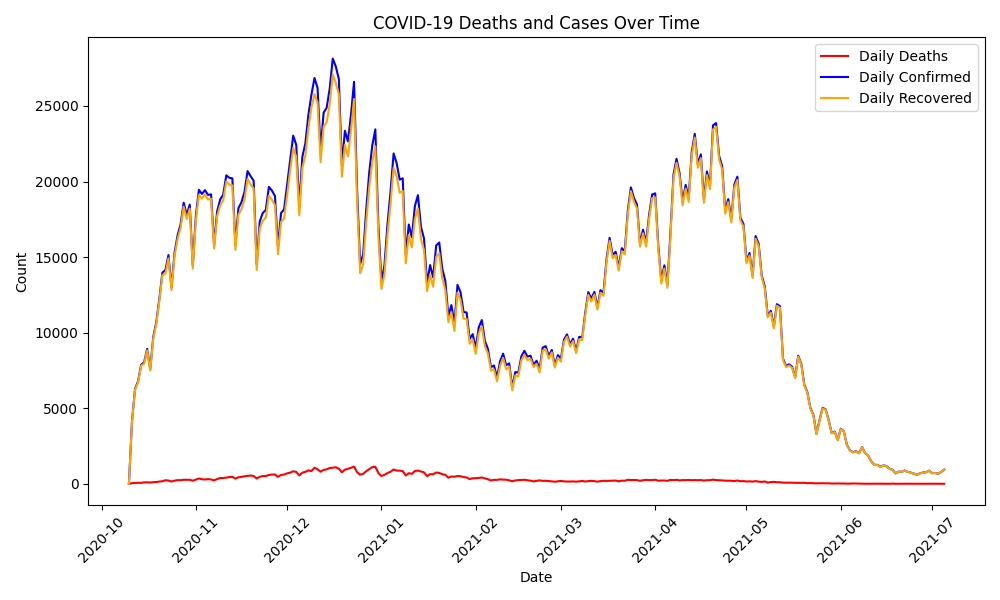
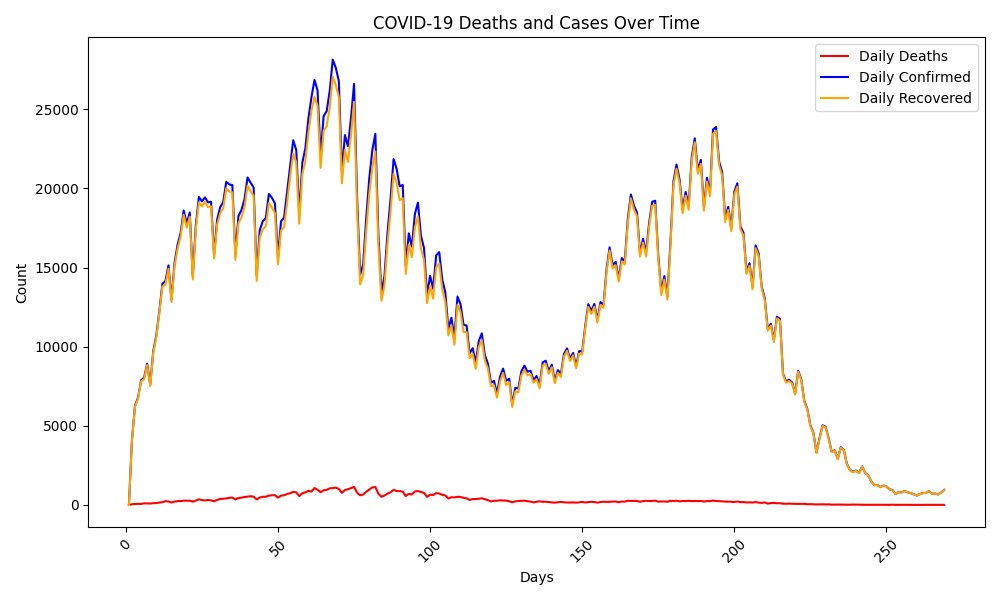
some_update

diff --git a/estimate_parameter.py b/estimate_parameter.py
@@ -1,0 +1,119 @@
+import numpy as np
+import pandas as pd
+from scipy.integrate import solve_ivp
+from scipy.optimize import curve_fit
+import matplotlib.pyplot as plt
+from iprocessor import add_day_name_column, plot_data_dcr, add_date_name_column, smooth_sundays_ssmt,smooth_sundays_ssm,\
+    smooth_sundays_rolling_ssm_w3,smooth_sundays_rolling_ssm_w5,smooth_sundays_rolling_w5_r,smooth_sundays_rolling_w5_l,smooth_sundays_rolling_w7_l,\
+        smooth_sundays_rolling_w7_r,smooth_sundays_rolling_ssm_w3_smt,plot_data_dcr_multi
+
+# Sample parameters,
+contacts = 1.0
+transmission_prob = 0.1
+total_population = 1000000
+reducing_transmission = 0.859
+exposed_period = 5
+asymptomatic_period = 14
+infectious_period = 14
+isolated_period = 21
+prob_asymptomatic = 0.3
+prob_quarant_inf = 0.5
+test_asy = 0.2
+dev_symp = 0.1
+mortality_isolated = 0.02
+mortality_infected = 0.01
+
+# Sample initial conditions-------------------------------------------------------
+S0 = total_population - 1
+E0 = 1
+A0 = 0
+I0 = 0
+F0 = 0
+R0 = 0
+D0 = 0
+initial_conditions = [S0, E0, A0, I0, F0, R0, D0]
+
+
+# Dataframe-------------------------------------------------
+df = pd.read_csv(r'C:\Users\kida_ev\PycharmProjects\pythonProject1\MA_EVNZR\German_case_.csv')
+
+# -------------------------------------------------------------------------------Convert 'Date' column to datetime format
+df['Date'] = pd.to_datetime(df['Date'], format='%Y-%m-%d')
+
+
+#------------------------------------------------------------------------------  Modification
+# Add the 'days' column
+df= add_day_name_column(df)
+df = add_date_name_column(df)
+#----------------------------------------------------------------------------- second modification with w7_l
+df_observed = smooth_sundays_rolling_w7_l(df)
+#-----------------------------------------------------------------------------------------------------
+# Taking 'days' time column from dataframe
+t = np.array(df_observed['days'])
+tmax = len(t)
+def derivative_rhs(t, X, contacts, transmission_prob, total_population, reducing_transmission,
+                   exposed_period, asymptomatic_period, infectious_period, isolated_period,
+                   prob_asymptomatic, prob_quarant_inf, test_asy, dev_symp, mortality_isolated, mortality_infected):
+    S, E, A, I, F, R, D = X
+    derivS = - contacts * transmission_prob * S * (I + reducing_transmission * A) / total_population
+    derivE = contacts * transmission_prob * S * (I + reducing_transmission * A) / total_population - E / exposed_period
+    derivA = prob_asymptomatic * E / exposed_period - A / asymptomatic_period
+    derivI = (1 - prob_asymptomatic) * E / exposed_period + dev_symp * A / asymptomatic_period - I / infectious_period  # +
+    derivF = prob_quarant_inf * I / infectious_period - F / isolated_period + test_asy * A / asymptomatic_period  # prob_isolated_asy*A/asymptomatic_period
+    derivR = (1 - prob_quarant_inf - mortality_infected) * I / infectious_period + (1 - mortality_isolated) * F / isolated_period + (1 - dev_symp - test_asy) * A / asymptomatic_period  # (1-prob_isolated_asy)*A / asymptomatic_period
+    derivD = (mortality_infected) * I / infectious_period + mortality_isolated * F / isolated_period
+    return np.array([derivS, derivE, derivA, derivI, derivF, derivR, derivD])
+
+#print(derivative_rhs(t, initial_conditions, contacts, transmission_prob, total_population, reducing_transmission,
+ #                  exposed_period, asymptomatic_period, infectious_period, isolated_period,
+  #                 prob_asymptomatic, prob_quarant_inf, test_asy, dev_symp, mortality_isolated, mortality_infected))
+
+
+def seaifrd_model(t, contacts, initial_conditions,transmission_prob, total_population, reducing_transmission,
+                  exposed_period, asymptomatic_period, infectious_period, isolated_period,
+                  prob_asymptomatic, prob_quarant_inf, test_asy, dev_symp, mortality_isolated, mortality_infected):
+    def derivative(t, initial_conditions):
+        return derivative_rhs(t, initial_conditions, contacts, transmission_prob, total_population, reducing_transmission,
+                              exposed_period, asymptomatic_period, infectious_period,
+                              isolated_period, prob_asymptomatic,
+                              prob_quarant_inf, test_asy, dev_symp, mortality_isolated, mortality_infected)
+
+    solution = solve_ivp(derivative, [0, tmax], initial_conditions, t_eval=t, method='RK45')
+    return solution#.y.flatten()
+print(seaifrd_model(t, contacts,initial_conditions, transmission_prob, total_population, reducing_transmission,
+                  exposed_period, asymptomatic_period, infectious_period, isolated_period,
+                  prob_asymptomatic, prob_quarant_inf, test_asy, dev_symp, mortality_isolated, mortality_infected))
+def fit_seaifrd_model(t, initial_conditions,confirmed, recovered, death):
+    def objective(t, contacts, initial_conditions,transmission_prob, total_population, reducing_transmission,
+                  exposed_period, asymptomatic_period, infectious_period, isolated_period,
+                  prob_asymptomatic, prob_quarant_inf, test_asy, dev_symp, mortality_isolated, mortality_infected):
+        return seaifrd_model(t, contacts, initial_conditions,transmission_prob, total_population, reducing_transmission,
+                             exposed_period, asymptomatic_period, infectious_period,
+                             isolated_period, prob_asymptomatic,
+                             prob_quarant_inf, test_asy, dev_symp, mortality_isolated, mortality_infected)
+
+    # Initial parameter guesses
+    initial_guess = [1.0,initial_conditions, 0.1, 1000000, 0.859, 5, 14, 14, 21, 0.3, 0.5, 0.2, 0.1, 0.02, 0.01]
+
+    # curve_fit to estimate parameters
+    params,_ = curve_fit(objective,t, np.concatenate([confirmed, recovered, death]), p0=initial_guess)# since curve_fit is expecting target values ydata as a single array; and x=time
+
+    return params
+
+# Estimate parameters
+estimated_params = fit_seaifrd_model(t, initial_conditions,df_observed['n_confirmed'], df_observed['n_recovered'], df_observed['n_death'])
+
+# Print the estimated parameters
+print("Estimated Parameters:", estimated_params)
+
+# Integrate the SEAIRFD model with estimated parameters
+solution_seaifrd = solve_ivp(
+    derivative_rhs,
+    [0, tmax],
+    initial_conditions,
+    t_eval=t,
+    args=estimated_params,
+    method='RK45'
+)
+
+

diff --git a/smoother.py b/smoother.py
@@ -1,4 +1,8 @@
 import pandas as pd
+import numpy as np
+import matplotlib.pyplot as plt
+import seaborn as sns
+from matplotlib.ticker import FixedLocator, NullFormatter
 from iprocessor import add_day_name_column, plot_data_dcr, add_date_name_column, smooth_sundays_ssmt,smooth_sundays_ssm,\
     smooth_sundays_rolling_ssm_w3,smooth_sundays_rolling_ssm_w5,smooth_sundays_rolling_w5_r,smooth_sundays_rolling_w5_l,smooth_sundays_rolling_w7_l,\
         smooth_sundays_rolling_w7_r,smooth_sundays_rolling_ssm_w3_smt,plot_data_dcr_multi
@@ -27,25 +31,55 @@ df = add_date_name_column(df)
 
 
 #------------------------------------------------------------------------------- plotting
-plot_data_dcr(df,'n_death','n_confirmed','n_recovered','original')
-plot_data_dcr(smooth_sundays_ssmt(df),'n_death','n_confirmed','n_recovered','smoothed_ssmt')
-plot_data_dcr(smooth_sundays_ssm(df),'n_death','n_confirmed','n_recovered','smoothed_ssm')
-plot_data_dcr(smooth_sundays_rolling_ssm_w3(df),'n_death','n_confirmed','n_recovered','smoothed_rolling_ssm_w3')
-plot_data_dcr(smooth_sundays_rolling_ssm_w5(df),'n_death','n_confirmed','n_recovered','smoothed_rolling_fssmt_w5')
-plot_data_dcr(smooth_sundays_rolling_ssm_w3_smt(df),'n_death','n_confirmed','n_recovered','smoothed_rolling_smt_w3')
-plot_data_dcr(smooth_sundays_rolling_w7_r(df),'n_death','n_confirmed','n_recovered','smoothed_rolling_w7_r')
-plot_data_dcr(smooth_sundays_rolling_w5_r(df),'n_death','n_confirmed','n_recovered','smoothed_rolling_w5_r')
-plot_data_dcr(smooth_sundays_rolling_w7_l(df),'n_death','n_confirmed','n_recovered','smoothed_rolling_w7_l')
-plot_data_dcr(smooth_sundays_rolling_w5_l(df),'n_death','n_confirmed','n_recovered','smoothed_rolling_w5_l')
-#
+#plot_data_dcr(df,'n_death','n_confirmed','n_recovered','original')
+#plot_data_dcr(smooth_sundays_ssmt(df),'n_death','n_confirmed','n_recovered','smoothed_ssmt')
+#plot_data_dcr(smooth_sundays_ssm(df),'n_death','n_confirmed','n_recovered','smoothed_ssm')
+#plot_data_dcr(smooth_sundays_rolling_ssm_w3(df),'n_death','n_confirmed','n_recovered','smoothed_rolling_ssm_w3')
+#plot_data_dcr(smooth_sundays_rolling_ssm_w5(df),'n_death','n_confirmed','n_recovered','smoothed_rolling_fssmt_w5')
+#plot_data_dcr(smooth_sundays_rolling_ssm_w3_smt(df),'n_death','n_confirmed','n_recovered','smoothed_rolling_smt_w3')
+#plot_data_dcr(smooth_sundays_rolling_w7_r(df),'n_death','n_confirmed','n_recovered','smoothed_rolling_w7_r')
+#plot_data_dcr(smooth_sundays_rolling_w5_r(df),'n_death','n_confirmed','n_recovered','smoothed_rolling_w5_r')
+#plot_data_dcr(smooth_sundays_rolling_w7_l(df),'n_death','n_confirmed','n_recovered','smoothed_rolling_w7_l')
+#plot_data_dcr(smooth_sundays_rolling_w5_l(df),'n_death','n_confirmed','n_recovered','smoothed_rolling_w5_l')
+#plot_data_dcr(smooth_sundays_rolling_w5_l(df),'n_death','n_confirmed','n_recovered','s')#moothed_rolling_w5_l')
 #plot_data_dcr(df_,'n_death','n_confirmed','n_recovered',)
 
 #(smooth_sundays(df))['n_recovered'].plot()
-df_smoothed_rolling_w7_r = smooth_sundays_rolling_w7_r(df)
-df_smoothed_rolling_w5_r = smooth_sundays_rolling_w5_r(df)
-df_origin = df
-df_smoothed_rolling_w3_r = smooth_sundays_rolling_ssm_w3(df)
+#df_smoothed_rolling_w7_r = smooth_sundays_rolling_w7_r(df)
+#df_smoothed_rolling_w5_r = smooth_sundays_rolling_w5_r(df)
+#df_origin = df
+#df_smoothed_rolling_w3_r = smooth_sundays_rolling_ssm_w3(df)
 
-plot_data_dcr_multi(
-    [df_origin, df_smoothed_rolling_w3_r, df_smoothed_rolling_w5_r,df_smoothed_rolling_w7_r ],
-    [ 'origin', 'w3_r', 'w5_r','w7_r'],output_filename='multi.png')
+#plot_data_dcr_multi(df_origin, df_smoothed_rolling_w3_r, df_smoothed_rolling_w5_r,df_smoothed_rolling_w7_r,'n_death' )
+
+#----------------------------------------------------------------------------------------------
+
+# Use Seaborn color palette for better color choices
+sns.set_palette("husl")
+
+# Create a figure and axis with a larger size
+fig, ax = plt.subplots(figsize=(15, 9))
+
+# Plot the data with different line styles and colors
+ax.plot(df['days'], df['n_recovered'], label='Original', linestyle='-', linewidth=3)
+ax.plot(df['days'], smooth_sundays_rolling_ssm_w3_smt(df)['n_recovered'], label='Rolling W3', linestyle='-', linewidth=1)
+ax.plot(df['days'], smooth_sundays_rolling_w5_l(df)['n_recovered'], label='Rolling W5', linestyle='-', linewidth=1)
+ax.plot(df['days'], smooth_sundays_rolling_w7_l(df)['n_recovered'], label='Rolling W7', linestyle='-', linewidth=2)
+
+# Set axis labels and title
+ax.set_xlabel("Days")
+ax.set_ylabel("Recovered Cases")
+ax.set_title("Comparative Analysis of Recovered Cases")
+
+# Add gridlines
+ax.grid(True, linestyle='--', alpha=0.7)
+
+# Adding legend with a slightly transparent background
+ax.legend(framealpha=0.8)
+
+# Save the figure
+#plt.savefig('o_w3-7_l_15_9_recovered')
+
+# Display the plot
+plt.show()
+#---------------

diff --git a/iprocessor.py b/iprocessor.py
@@ -1,7 +1,8 @@
 import pandas as pd
 import matplotlib.pyplot as plt
 import math
-
+import numpy as np
+from matplotlib.ticker import FixedLocator, NullFormatter
 
 
 
@@ -214,6 +215,8 @@ def plot_data_dcr(df, column_d: str, column_c: str, column_r: str, output_filena
     ax.set_title('COVID-19 Deaths and Cases Over Time')
 
     plt.xticks(rotation=45)
+    #ax = plt.gca()
+    #ax.yaxis.set_major_locator(FixedLocator(np.arange(0, 30000, 2000)))
 
     ax.legend()
 
@@ -230,10 +233,10 @@ import matplotlib.pyplot as plt
 
 def plot_data_dcr_multi(df,df3,df5,df7, column_:str,output_filename=None):
     fig, ax = plt.subplots(figsize=(15, 9))
-    ax.plot(df['Date'], df[column_], label='origin', color='red')
-    ax.plot(df['Date'], df3[column_], label='w3_r', color='blue')
-    ax.plot(df['Date'], df5[column_], label='w5_r', color='orange')
-    ax.plot(df['Date'], df7[column_], label='w7_r', color='yellow')
+    ax.plot(df['days'], df[column_], label='origin', color='red')
+    ax.plot(df['days'], df3[column_], label='w3_r', color='blue')
+    ax.plot(df['days'], df5[column_], label='w5_r', color='orange')
+    ax.plot(df['days'], df7[column_], label='w7_r', color='yellow')
 
     ax.set_xlabel('Days')
     ax.set_ylabel('Count')
